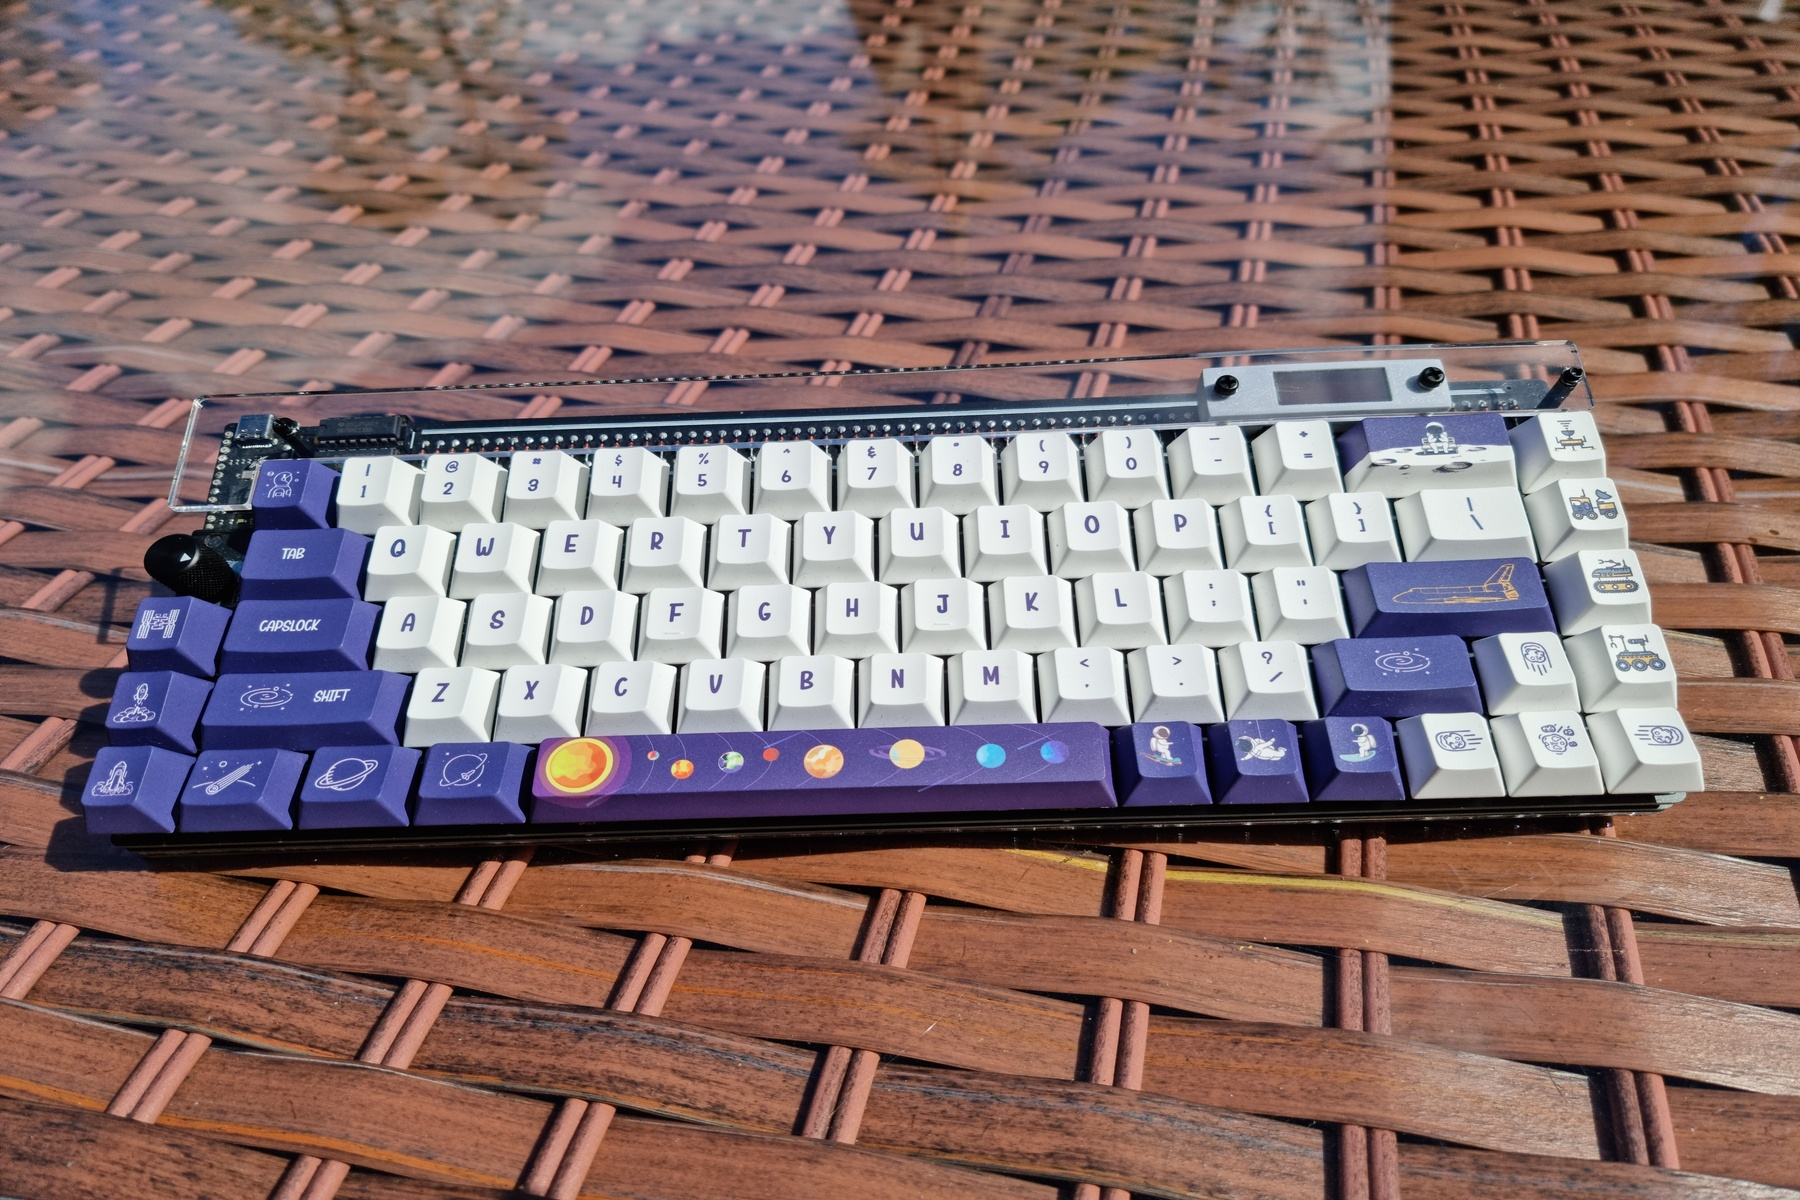
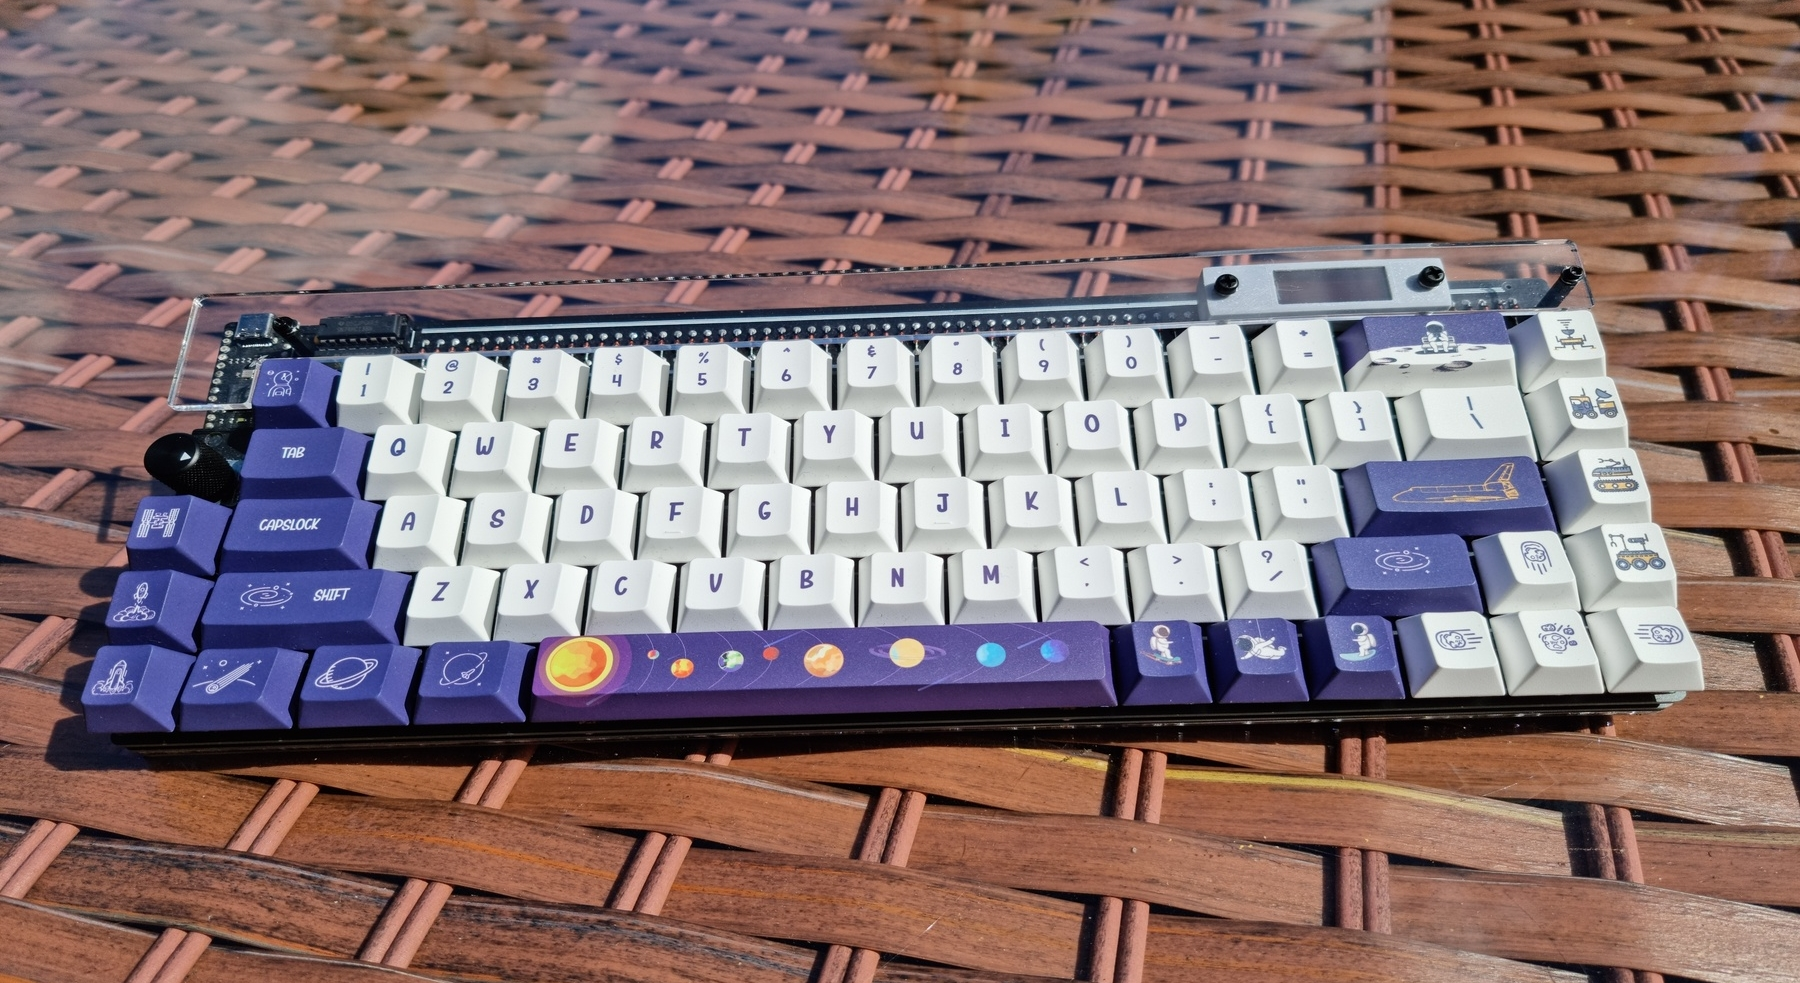
Added a post and updated images

diff --git a/_posts/2022-04-23-Mechanical-Keeb-Display.md b/_posts/2022-04-23-Mechanical-Keeb-Display.md
@@ -3,5 +3,5 @@ layout: post
 title: Nullbits Tidbit Display
 author: Alex Meek
 categories: 3dprinting
-image: keyboard_oled_fit_unpainted_2.png
+image: keyboard_oled_fit_unpainted_1.jpg
 ---

diff --git a/_posts/2022-04-23-Canon-FD-Lens-Cap.md b/_posts/2022-04-23-Canon-FD-Lens-Cap.md
@@ -3,7 +3,7 @@ layout: post
 title: Canon FD Lens Cap
 author: Alex Meek
 categories: 3dprinting
-image: doge.png
+image: Canon-blender-final-version.png
 ---
 
 ## header

diff --git a/_posts/2022-04-26-Grogu.md b/_posts/2022-04-26-Grogu.md
@@ -1,0 +1,7 @@
+---
+layout: post
+title: Grogu A.K.A Baby Yoda
+author: Alex Meek
+categories: 3dprinting
+image: grogu_v1_unpainted_3.jpg
+---
